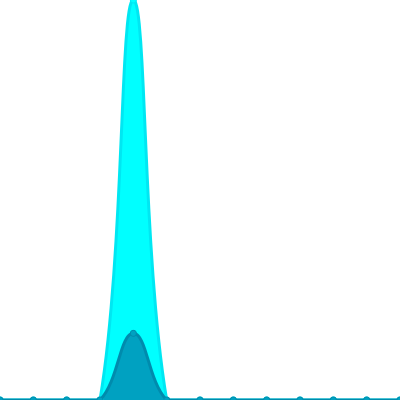
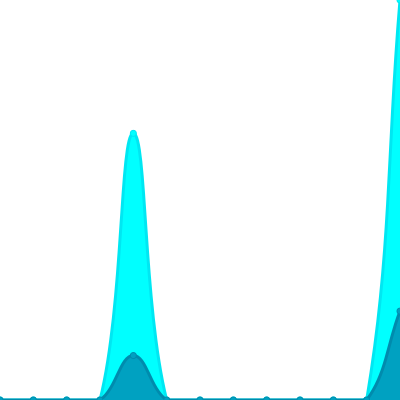
Update views

Changed region(s): [[0.24, 0.0, 0.42, 0.99], [0.9, 0.0, 1.0, 1.0]]

diff --git a/README.md b/README.md
@@ -26,7 +26,7 @@ The project created and maintained by [gayanvoice](https://github.com/gayanvoice
 			</a>
 		</td>
 		<td>
-			2024/1/24 12:31 AM UTC
+			2024/1/25 12:31 AM UTC
 		</td>
 		<td>
 			12
@@ -42,7 +42,7 @@ The project created and maintained by [gayanvoice](https://github.com/gayanvoice
 			</a>
 		</td>
 		<td>
-			2024/1/24 12:31 AM UTC
+			2024/1/25 12:31 AM UTC
 		</td>
 		<td>
 			10
@@ -53,7 +53,7 @@ The project created and maintained by [gayanvoice](https://github.com/gayanvoice
 	</tr>
 </table>
 
-<small><i>Last updated on 2024/1/26 6:08 PM UTC</i></small>
+<small><i>Last updated on 2024/1/27 12:29 AM UTC</i></small>
 
 ## ✂Copy and 📋 Paste
 ### Total Views Badge

diff --git a/readme/431478118/year.md b/readme/431478118/year.md
@@ -23,10 +23,10 @@
 			<code>2024/1/1</code>
 		</td>
 		<td>
-			<code>0</code>
+			<code>2</code>
 		</td>
 		<td>
-			<code>0</code>
+			<code>9</code>
 		</td>
 	</tr>
 	<tr>
@@ -164,7 +164,7 @@
 </table>
 
 </details>
-<small><i>Last updated on 2024/1/26 6:07 PM UTC</i></small>
+<small><i>Last updated on 2024/1/27 12:28 AM UTC</i></small>
 
 ## ✂Copy and 📋 Paste
 ### SVG Badge

diff --git a/readme/431592046/year.md b/readme/431592046/year.md
@@ -164,7 +164,7 @@
 </table>
 
 </details>
-<small><i>Last updated on 2024/1/26 6:07 PM UTC</i></small>
+<small><i>Last updated on 2024/1/27 12:29 AM UTC</i></small>
 
 ## ✂Copy and 📋 Paste
 ### SVG Badge
